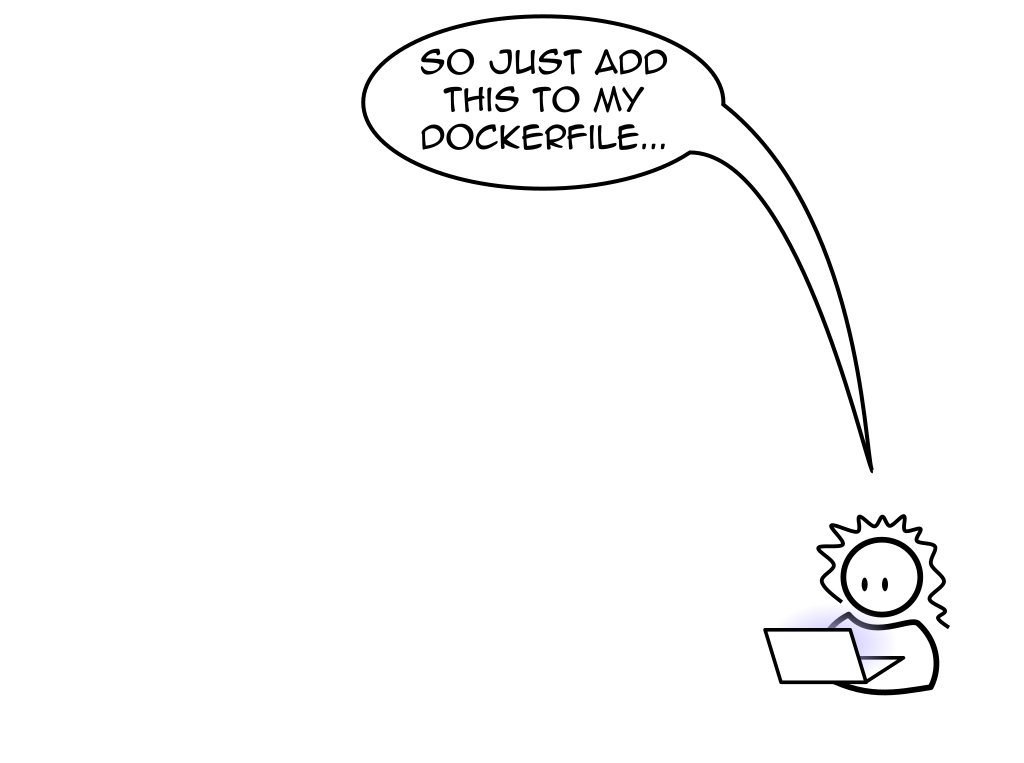
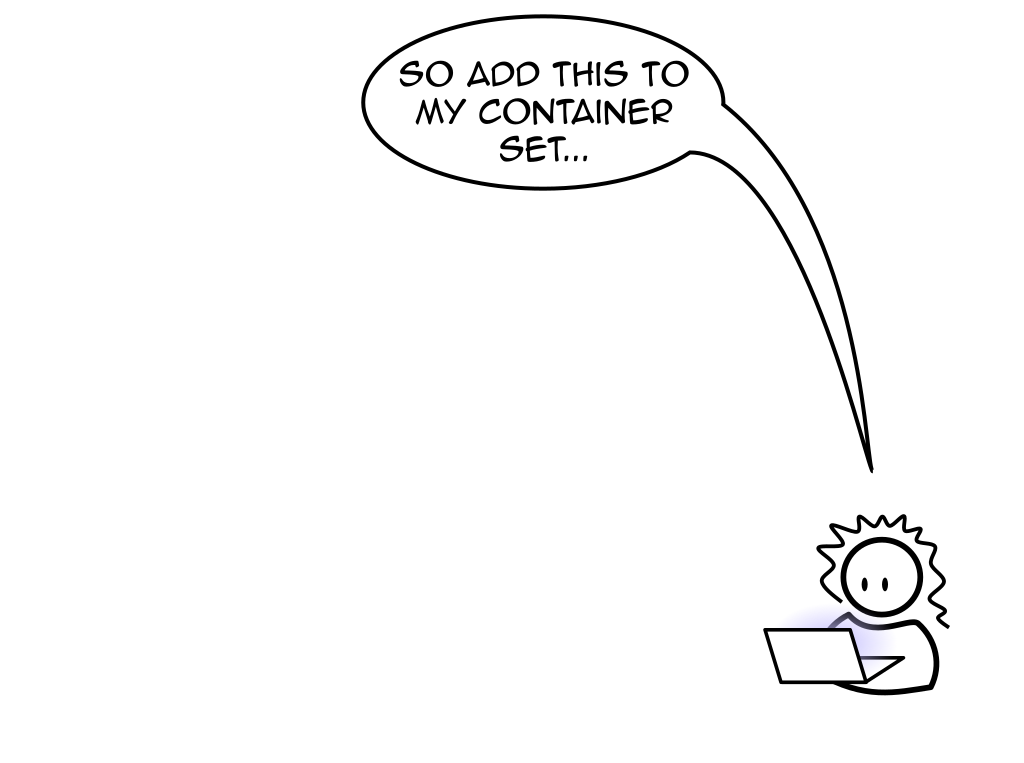
Updated whatsTheIP.svg and generated PNGs, various fixes.

Changed region(s): [[0.375, 0.0603, 0.6875, 0.211]]

diff --git a/index.html b/index.html
@@ -874,12 +874,6 @@ CMD ["-D", "FOREGROUND"]
 ENTRYPOINT ["apachectl"]</code></pre>
       </section>
       <section>
-        <h2>Updating an existing container</h2>
-        <code>
-          docker build <em>your_container_id</em>
-        </code>
-      </section>
-      <section>
         <pre><code>$ docker build .
 
 Sending build context to Docker daemon 2.048 kB
@@ -961,7 +955,7 @@ CONTAINER ID        IMAGE         COMMAND                CREATED             STA
         <img src="images/composeFile5.png" />
       </section>
       <section>
-        <h2>"Up"ing a container</h2>
+        <h2>"Up"ing a container set</h2>
         <code>docker-compose up -d</code>
         <p class="fragment"><code>-d</code> for <strong>d</strong>etach</p>
       </section>
@@ -1230,84 +1224,6 @@ docker rmi $(docker images -q)</code></pre>
       </section>
       <section>
         <img src="images/d8installScreen.png" />
-      </section>
-    </section>
-
-    <section>
-      <section>
-        <h1>What about Drush?</h1>
-      </section>
-      <section>
-        <img src="images/alreadyHaveDrush.png" />
-      </section>
-      <section>
-        <h2>Problems with local install</h2>
-        <p class="fragment">Different versions & configuration of PHP</p>
-        <p class="fragment">Drush versions may be significant</p>
-      </section>
-      <section>
-        <img src="images/putDrushInAContainer.png" />
-      </section>
-      <section>
-        <h2>There's a container for that</h2>
-        <code>docker pull drush/drush</code>
-      </section>
-      <section>
-        <h2>"Stealing" volumes</h2>
-        <p class="fragment"><code>volumes_from</code> mounts all volumes from another container</p>
-        <p class="fragment">Volumes <strong>not</strong> unmounted from other containers</p>
-      </section>
-      <section>
-        <pre><code>services:
-  web:
-    build: .docker/web
-    ports:
-      - "80:80"
-    volumes:
-      - ./docroot:/var/www/html
-  db:
-    image: mysql
-    ports:
-      - "3306:3306"
-    environment:
-      - MYSQL_ROOT_PASSWORD=root
-      - MYSQL_DATABASE=drupal8
-      - MYSQL_USER=drupal
-      - MYSQL_PASSWORD=thisisawesome
-  drush:
-    image: drush/drush
-    volumes_from:
-      - web</code></pre>
-        <small class="fragment">(Scroll down.)</small>
-      </section>
-      <section>
-        <h2>Running a container in a set</h2>
-        <code>docker-compose run <em>service_name</em></code>
-        <p class="fragment">Beware! Creates a (tiny) new container each time</p>
-      </section>
-      <section>
-        <pre><code>$ docker-compose run drush --root=/var/www/html --uri=http://web/ status
-Drupal version                  :  8.1.3
-Site URI                        :  http://web/
-Database driver                 :  mysql
-Database hostname               :  db
-Database port                   :  3306
-Database username               :  drupal
-Database name                   :  drupal8
-Drupal bootstrap                :  Successful
-PHP OS                          :  Linux
-Install profile                 :  standard
-Drupal root                     :  /var/www/html
-Drupal Settings File            :  sites/default/settings.php
-Site path                       :  sites/default
-File directory path             :  sites/default/files
-Temporary file directory path   :  /tmp</code></pre>
-      </section>
-      <section>
-        <h2>Where to go from here</h2>
-        <p class="fragment">Persistent CLI container with multiple tools</p>
-        <p class="fragment">Helper scripts to make things easy</p>
-        <a class="fragment" href="http://deninet.com/blog/1606/docker-scratch-part-6-cli-containers-and-helper-scripts">Docker from Scratch, Part 6 on deninet.com</a>
       </section>
     </section>
 
